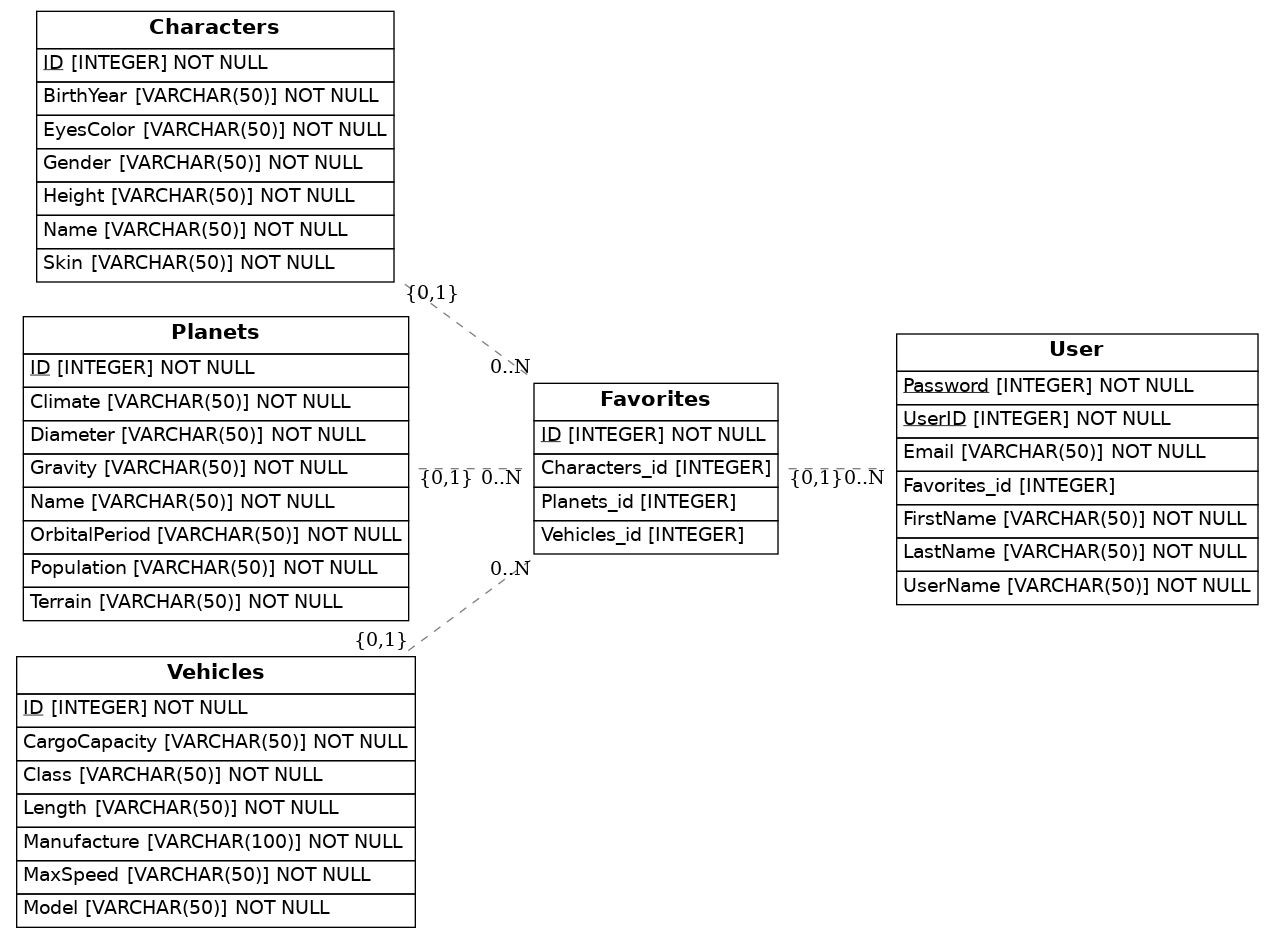
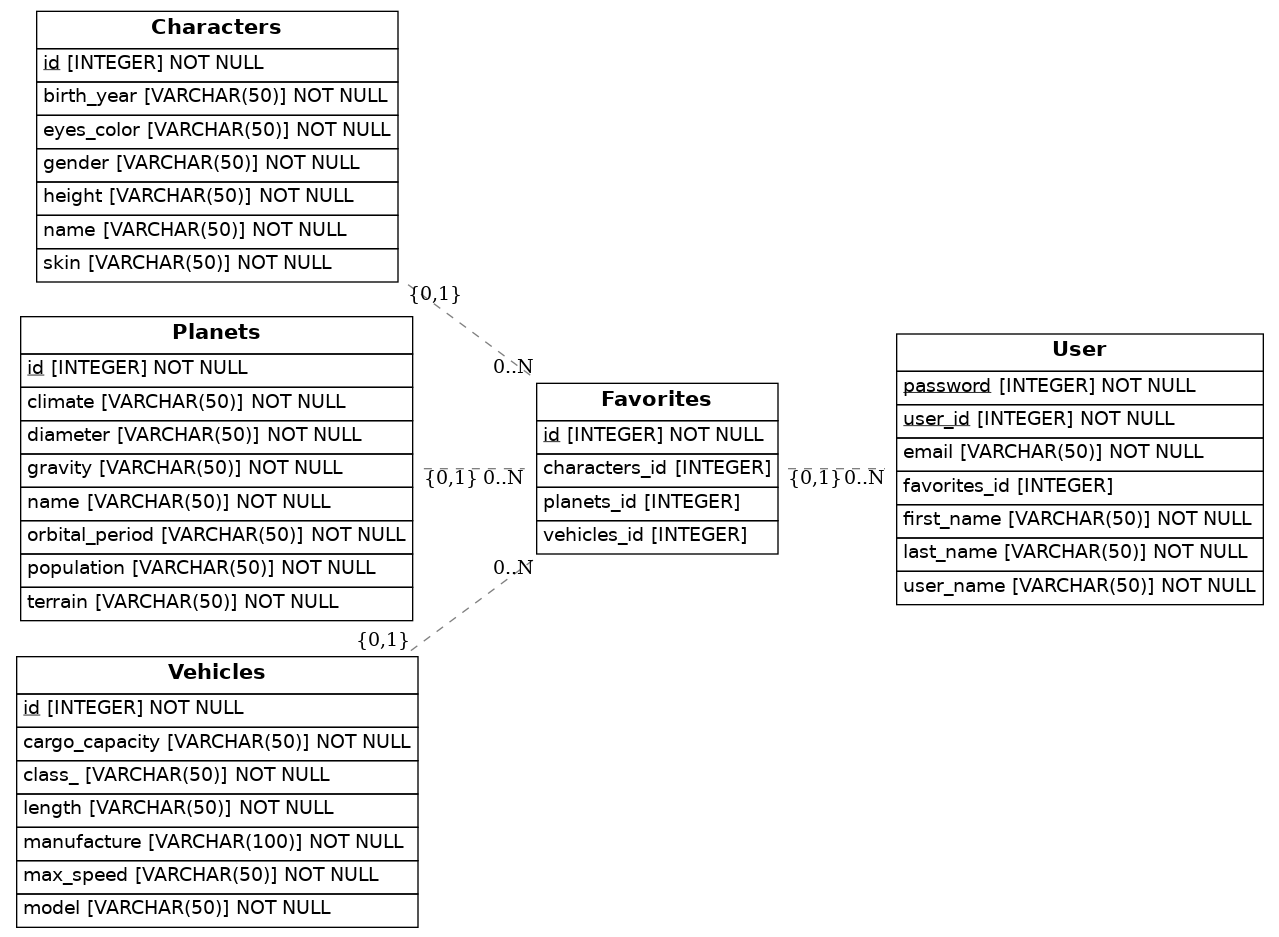
Proyecto Data Modeling Star Wars

diff --git a/src/models.py b/src/models.py
@@ -9,56 +9,56 @@ Base = declarative_base()
 
 class Characters(Base):
     __tablename__ = 'Characters'
-    ID = Column(Integer, primary_key=True)
-    Name = Column(String(50), nullable=False)
-    BirthYear = Column(String(50), nullable=False)
-    Gender = Column(String(50), nullable=False)
-    EyesColor = Column(String(50), nullable=False)
-    Skin = Column(String(50), nullable=False)
-    Height = Column(String(50), nullable=False)
+    id = Column(Integer, primary_key=True)
+    name = Column(String(50), nullable=False)
+    birth_year = Column(String(50), nullable=False)
+    gender = Column(String(50), nullable=False)
+    eyes_color = Column(String(50), nullable=False)
+    skin = Column(String(50), nullable=False)
+    height = Column(String(50), nullable=False)
     pass
 
 class Planets(Base):
     __tablename__ = 'Planets'
-    ID = Column(Integer, primary_key=True)
-    Name = Column(String(50), nullable=False)
-    Gravity = Column(String(50), nullable=False)
-    Terrain = Column(String(50), nullable=False)
-    Climate = Column(String(50), nullable=False)
-    OrbitalPeriod = Column(String(50), nullable=False)
-    Population = Column(String(50), nullable=False)
-    Diameter = Column(String(50), nullable=False)
+    id = Column(Integer, primary_key=True)
+    name = Column(String(50), nullable=False)
+    gravity = Column(String(50), nullable=False)
+    terrain = Column(String(50), nullable=False)
+    climate = Column(String(50), nullable=False)
+    orbital_period = Column(String(50), nullable=False)
+    population = Column(String(50), nullable=False)
+    diameter = Column(String(50), nullable=False)
     pass
 
 class Vehicles(Base):
     __tablename__ = 'Vehicles'
-    ID = Column(Integer, primary_key=True)
-    Model = Column(String(50), nullable=False)
-    Length = Column(String(50), nullable=False)
-    MaxSpeed = Column(String(50), nullable=False)
-    CargoCapacity = Column(String(50), nullable=False)
-    Class = Column(String(50), nullable=False)
-    Manufacture = Column(String(100), nullable=False)
+    id = Column(Integer, primary_key=True)
+    model = Column(String(50), nullable=False)
+    length = Column(String(50), nullable=False)
+    max_speed = Column(String(50), nullable=False)
+    cargo_capacity = Column(String(50), nullable=False)
+    class_ = Column(String(50), nullable=False)
+    manufacture = Column(String(100), nullable=False)
     pass
 
 class Favorites(Base):
     __tablename__ = 'Favorites'
-    ID = Column(Integer, primary_key=True)
-    Characters_id = Column(Integer, ForeignKey('Characters.id'))
-    Planets_id = Column(Integer, ForeignKey('Planets.id'))
-    Vehicles_id = Column(Integer, ForeignKey('Vehicles.id'))
+    id = Column(Integer, primary_key=True)
+    characters_id = Column(Integer, ForeignKey('Characters.id'))
+    planets_id = Column(Integer, ForeignKey('Planets.id'))
+    vehicles_id = Column(Integer, ForeignKey('Vehicles.id'))
     pass
 
 
 class User(Base):
     __tablename__ = 'User'
-    UserID = Column(Integer, primary_key=True)
-    FirstName = Column(String(50), nullable=False)
-    LastName = Column(String(50), nullable=False)
-    UserName = Column(String(50), nullable=False)
-    Email = Column(String(50), nullable=False)
-    Password= Column(Integer, primary_key=True)
-    Favorites_id = Column(Integer, ForeignKey('Favorites.id'))
+    user_id = Column(Integer, primary_key=True)
+    first_name = Column(String(50), nullable=False)
+    last_name = Column(String(50), nullable=False)
+    user_name = Column(String(50), nullable=False)
+    email = Column(String(50), nullable=False)
+    password= Column(Integer, primary_key=True)
+    favorites_id = Column(Integer, ForeignKey('Favorites.id'))
     pass
 
 ## Draw from SQLAlchemy base
